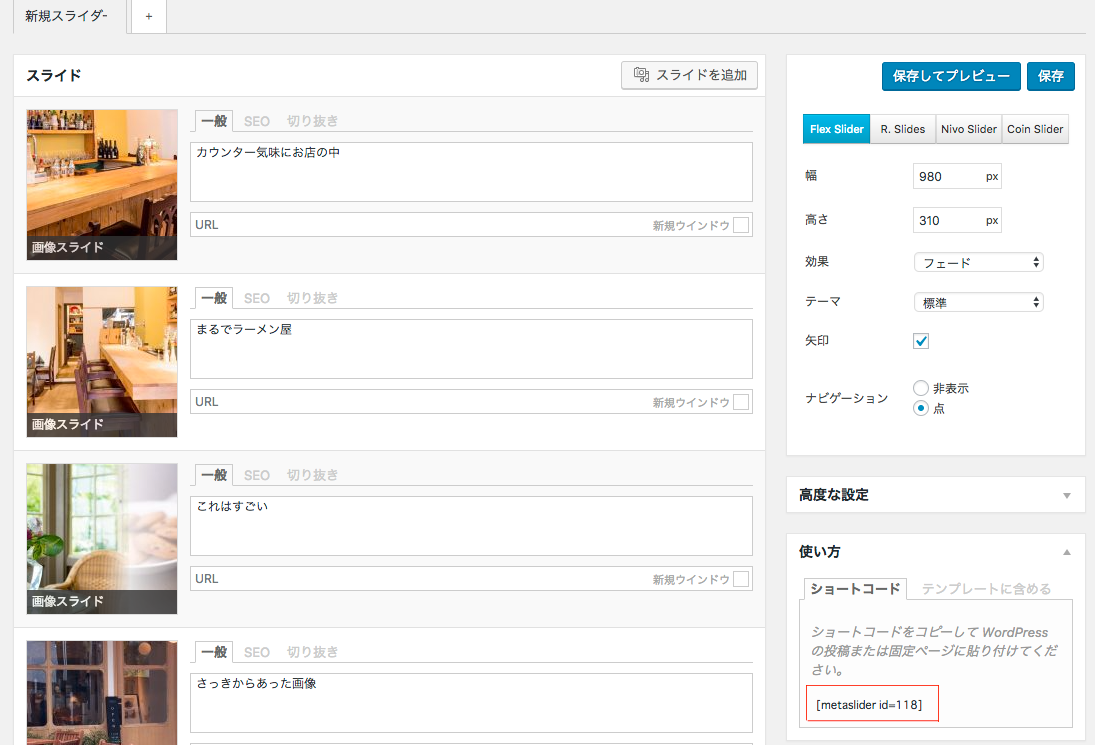
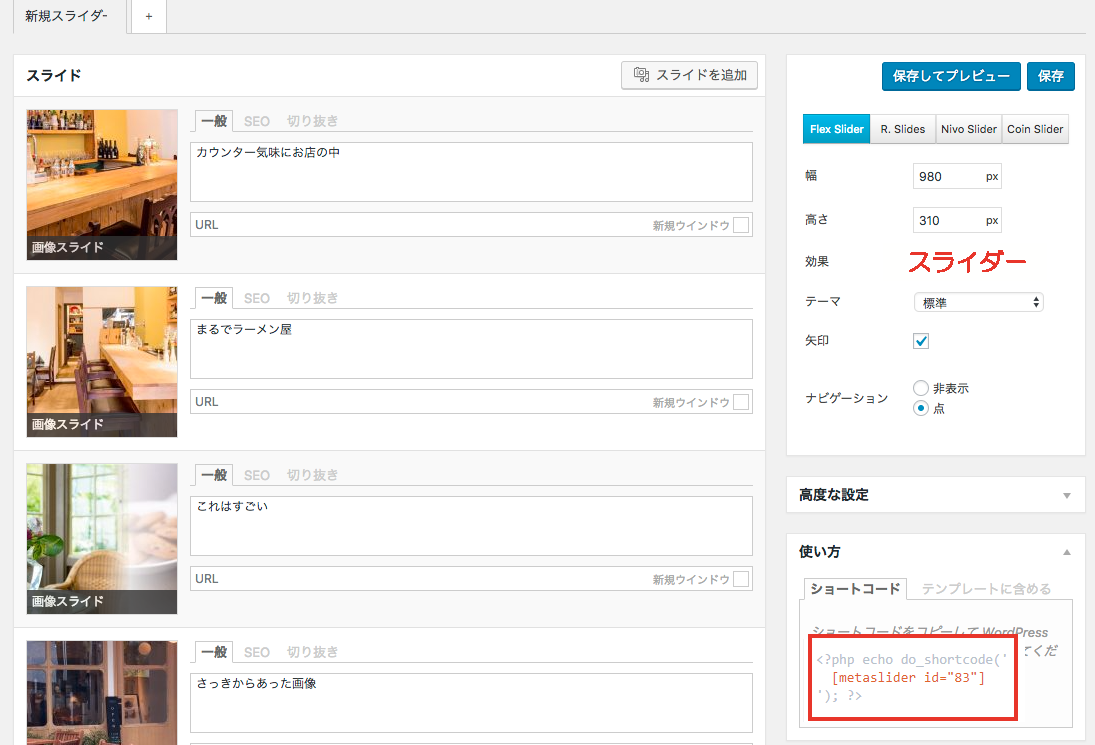
slider

Changed region(s): [[0.7142, 0.8336, 0.9315, 0.9879], [0.8384, 0.3396, 0.9626, 0.3705]]

diff --git a/03_customaize.php b/03_customaize.php
@@ -68,14 +68,13 @@
    画面の説明文にある通り､固定ページにこのコードを貼り付けます｡ 
  </li>
  
- <li>固定ページ→ トップページ 下の編集 をクリックしてください｡<br>
+ <li>simplicity2のheader.phpをsimplicity2-childにコピーしてください<br>
+    コピーしたショートコードをheader.phpのここに貼り付けます
    <img src="kt03/slider08.png" alt="固定ページ編集">
  </li>
  
  
- <li>編集モードを｢テキスト｣に変えて､さきほどコピーしたショートコードを貼り付けて下さい｡<br>
-   また､前章の｢9．2．メインビジュアルを追加する｣ で追加した画像は削除して､更新ボタンを押して下さい｡<br>
-   <img src="kt03/slider09.png" alt="ショートコード"> 
+ <li> 
     <div class="topics-container">
       <h2>TOPICS ショートコードとは</h2>
       <p>プラグインなどが提供する機能を､投稿ページ内の記事内に埋め込んで実行するための呼び出し用コードです｡<br>
